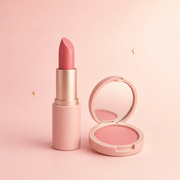
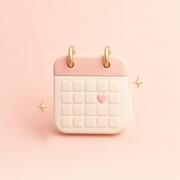
🌸 블러쉬핑크·샴페인골드 테마 + 달력 아이콘 여백 보정(180px·멀티 ICO, v=3)
- 아이콘: 기존 배경의 블러쉬 핑크 그라데이션을 자연스럽게 확장해 중앙 달력 오브젝트를 11% 축소, 여백 확보
- 컬러: 진한 로즈(#E86F8F/#D85A7D) → 블러쉬 핑크(#E48F99/#D67683) + 샴페인 골드(#C69E6B/#EFE3D0/#F9F3EA)
- 배경 크림 블러쉬(#FFF9F7~#FCEAE6), 카드 테두리 골드, '슬슬 갈 때!' 배지 골드, 상태 배지·별점·입력창 톤 정리
- 기능/Firebase 동기화 코드 변경 없음

diff --git a/index.html b/index.html
@@ -3,25 +3,28 @@
 <head>
 <meta charset="utf-8">
 <meta name="viewport" content="width=device-width, initial-scale=1, viewport-fit=cover">
-<meta name="theme-color" content="#FFF8FA">
+<meta name="theme-color" content="#FFF9F7">
 <meta name="apple-mobile-web-app-capable" content="yes">
 <meta name="apple-mobile-web-app-status-bar-style" content="default">
 <meta name="apple-mobile-web-app-title" content="꽃단장">
 <meta name="robots" content="noindex, nofollow">
-<link rel="icon" href="favicon.ico?v=2" sizes="any">
-<link rel="apple-touch-icon" href="apple-touch-icon.png?v=2">
+<link rel="icon" href="favicon.ico?v=3" sizes="any">
+<link rel="apple-touch-icon" href="apple-touch-icon.png?v=3">
 <title>꽃단장 🌸 · 뷰티 케어 캘린더</title>
 <style>
 :root{
-  --bg:#FFF8FA; --card:#FFFFFF; --blush:#FFEFF4; --blush-2:#FFDFE9;
-  --ink:#43323C; --ink-2:#6E5561; --muted:#B08FA0;
-  --line:#F6DCE5; --rose:#E86F8F; --rose-d:#D85A7D; --rose-soft:#FDE7ED;
-  --mint-bg:#E9F6F0; --mint-ink:#3E8E6D;
-  --coral-bg:#FDEBEE; --coral-ink:#D85A7D;
-  --over-bg:#F9D9E1; --over-ink:#B3264C;
+  --bg:#FFF9F7; --card:#FFFFFF; --blush:#FBEFE9; --blush-2:#F6DFD6;
+  --ink:#453430; --ink-2:#6E5A52; --muted:#B09A8F;
+  --line:#EFE3D0; --line-soft:#F6EFE6;
+  --rose:#E48F99; --rose-d:#D67683; --rose-soft:#FBECEA;
+  --gold:#C69E6B; --gold-d:#A67C46; --gold-soft:#EFE3D0; --gold-cream:#F9F3EA;
+  --label:#A9846A;
+  --mint-bg:#EEF4ED; --mint-ink:#5E8A6C;
+  --coral-bg:#F9F3EA; --coral-ink:#A67C46;
+  --over-bg:#F8E3E0; --over-ink:#A8454F;
   --lilac:#9B7EDE; --apricot:#E8913F; --mint-dot:#5FB89A; --slate:#8E9BB0;
-  --shadow:0 4px 16px rgba(216,90,125,.09);
-  --r:20px;
+  --shadow:0 4px 16px rgba(160,124,86,.10);
+  --r:20px; --r2:16px;
 }
 *,*::before,*::after{box-sizing:border-box}
 html{-webkit-text-size-adjust:100%}
@@ -33,14 +36,14 @@ body{
 }
 body::before{content:"";position:fixed;inset:0;z-index:-1;pointer-events:none;
   background-image:
-    radial-gradient(680px 380px at 100% -6%, #FFE3EC 0%, rgba(255,227,236,0) 62%),
-    radial-gradient(560px 340px at -8% 4%, #FFF0F5 0%, rgba(255,240,245,0) 58%);
+    radial-gradient(680px 380px at 100% -6%, #FDE6DA 0%, rgba(253,230,218,0) 62%),
+    radial-gradient(560px 340px at -8% 4%, #FFF1EA 0%, rgba(255,241,234,0) 58%);
   background-repeat:no-repeat;background-position:top right,top left}
 body.sheet-open{position:fixed;left:0;right:0;width:100%;overflow:hidden}
 button{font-family:inherit}
 .hidden{display:none !important}
-.warnbar{display:none;margin:0 0 12px;padding:11px 13px;border-radius:14px;background:#FFF1E6;border:1px solid #F6DBC9;
-  color:#96543A;font-size:11.5px;font-weight:700;line-height:1.5}
+.warnbar{display:none;margin:0 0 12px;padding:11px 13px;border-radius:14px;background:#FBF3E4;border:1px solid #EDDBBC;
+  color:#8A6432;font-size:11.5px;font-weight:700;line-height:1.5}
 .warnbar.on{display:block}
 
 .app{max-width:820px;margin:0 auto;padding:0 16px;padding-bottom:calc(120px + env(safe-area-inset-bottom))}
@@ -48,11 +51,11 @@ button{font-family:inherit}
 /* ── top bar ── */
 .topbar{position:sticky;top:0;z-index:20;display:flex;align-items:center;justify-content:space-between;gap:10px;
   padding:14px 0 12px;padding-top:calc(14px + env(safe-area-inset-top));
-  background:linear-gradient(180deg, rgba(255,248,250,.99) 55%, rgba(255,248,250,.9) 82%, rgba(255,248,250,0));
+  background:linear-gradient(180deg, rgba(255,249,247,.99) 58%, rgba(255,249,247,.92) 84%, rgba(255,249,247,0));
   -webkit-backdrop-filter:blur(8px);backdrop-filter:blur(8px)}
 .brand{display:flex;align-items:center;gap:10px;min-width:0}
 .brand-mark{width:42px;height:42px;border-radius:14px;display:flex;align-items:center;justify-content:center;font-size:21px;flex:0 0 auto;
-  background:linear-gradient(150deg,#FFDFE9,#FFF0F5);box-shadow:0 2px 10px rgba(232,111,143,.18)}
+  background:linear-gradient(150deg,#F9E3DA,#FBF3E6);border:1px solid rgba(198,158,107,.28);box-shadow:0 2px 10px rgba(198,158,107,.18)}
 .brand h1{margin:0;font-size:17px;font-weight:800;letter-spacing:-.02em;line-height:1.2}
 .brand p{margin:3px 0 0;font-size:11.5px;color:var(--muted);font-weight:700;letter-spacing:-.01em;line-height:1.42}
 .icon-btn{width:40px;height:40px;border-radius:14px;border:1px solid var(--line);background:rgba(255,255,255,.94);
@@ -74,19 +77,19 @@ button{font-family:inherit}
 
 /* ── headings ── */
 .sec-head{display:flex;align-items:center;justify-content:space-between;gap:8px;margin:22px 2px 10px}
-.sec-title{font-size:13px;font-weight:800;color:#B0708A;letter-spacing:.02em}
+.sec-title{font-size:13px;font-weight:800;color:var(--label);letter-spacing:.02em}
 .sec-sub{font-size:11.5px;color:var(--muted);font-weight:700}
 .card{background:var(--card);border:1px solid var(--line);border-radius:var(--r);box-shadow:var(--shadow);padding:16px}
 
 /* ── hero ── */
 .hero{position:relative;overflow:hidden;border-radius:26px;padding:18px;
-  background:linear-gradient(155deg,#FFFFFF 0%,#FFF7FA 46%,#FFEFF4 100%);
-  border:1px solid #F8D9E3;box-shadow:0 10px 30px rgba(216,90,125,.12)}
+  background:linear-gradient(155deg,#FFFFFF 0%,#FFFBF7 44%,#FBEDE5 100%);
+  border:1px solid var(--gold-soft);box-shadow:0 10px 30px rgba(198,158,107,.16)}
 .hero::after{content:"";position:absolute;right:-44px;top:-56px;width:170px;height:170px;border-radius:50%;
-  background:radial-gradient(circle,#FFDCE7 0%,rgba(255,220,231,0) 70%);pointer-events:none}
+  background:radial-gradient(circle,#FBE2D4 0%,rgba(251,226,212,0) 70%);pointer-events:none}
 .hero>*{position:relative;z-index:1}
 .hero-stats{display:flex;gap:10px;margin-top:12px}
-.stat{flex:1;background:rgba(255,255,255,.86);border:1px solid #F8DCE6;border-radius:16px;padding:10px 12px}
+.stat{flex:1;background:rgba(255,255,255,.88);border:1px solid #F3E8DB;border-radius:16px;padding:10px 12px}
 .stat b{display:block;font-size:19px;font-weight:800;color:var(--rose-d);letter-spacing:-.02em}
 .stat span{display:block;margin-top:2px;font-size:10.5px;color:var(--muted);font-weight:700}
 .hero-note{margin:10px 2px 0;font-size:11.5px;color:var(--ink-2);font-weight:600}
@@ -97,20 +100,21 @@ button{font-family:inherit}
 .chip{flex:0 0 auto;padding:7px 13px;border-radius:999px;border:1px solid var(--line);background:#fff;
   font-size:12.5px;font-weight:700;color:var(--ink-2);cursor:pointer;-webkit-appearance:none}
 .chip.on{background:linear-gradient(135deg,var(--rose),var(--rose-d));border-color:transparent;color:#fff;
-  box-shadow:0 3px 10px rgba(216,90,125,.28)}
+  box-shadow:0 3px 10px rgba(214,118,131,.28)}
 
 /* ── item card ── */
 .item-card{background:var(--card);border:1px solid var(--line);border-radius:var(--r);box-shadow:var(--shadow);padding:15px 15px 13px;margin-bottom:12px}
 .item-top{display:flex;align-items:flex-start;gap:9px}
 .cat-dot{width:10px;height:10px;border-radius:50%;flex:0 0 auto;margin-top:6px}
 .item-name{font-size:15.5px;font-weight:800;letter-spacing:-.02em;line-height:1.3;flex:1;min-width:0}
-.badge{flex:0 0 auto;font-size:10.5px;font-weight:800;padding:4px 9px;border-radius:999px;letter-spacing:-.01em}
-.badge.ok{background:var(--mint-bg);color:var(--mint-ink)}
-.badge.soon{background:var(--coral-bg);color:var(--coral-ink)}
-.badge.over{background:var(--over-bg);color:var(--over-ink)}
-.badge.none{background:#F5EEF1;color:var(--muted)}
+.badge{flex:0 0 auto;font-size:10.5px;font-weight:800;padding:3px 9px;border-radius:999px;letter-spacing:-.01em;
+  border:1px solid transparent}
+.badge.ok{background:var(--mint-bg);color:var(--mint-ink);border-color:#DDE9DE}
+.badge.soon{background:var(--gold-cream);color:var(--gold-d);border-color:#EBDCC2}
+.badge.over{background:var(--over-bg);color:var(--over-ink);border-color:#EFCFC9}
+.badge.none{background:#F6F1EA;color:var(--muted);border-color:#EDE4D8}
 .item-meta{margin:7px 0 0 19px;font-size:12px;color:var(--ink-2);font-weight:600;line-height:1.55}
-.item-meta .sep{color:#E7CBD6;margin:0 5px}
+.item-meta .sep{color:#EADCCC;margin:0 5px}
 .dplus{margin:8px 0 0 19px;font-size:13px;font-weight:800;color:var(--ink);letter-spacing:-.01em}
 .dplus em{font-style:normal;color:var(--rose-d)}
 .dplus .approx{font-size:11.5px;font-weight:700;color:var(--muted);margin-left:5px}
@@ -118,14 +122,14 @@ button{font-family:inherit}
 .item-actions{display:flex;gap:8px;margin:12px 0 0 19px}
 .btn-done{flex:1;padding:11px 12px;border:none;border-radius:14px;cursor:pointer;-webkit-appearance:none;
   background:linear-gradient(135deg,var(--rose),var(--rose-d));color:#fff;font-size:13.5px;font-weight:800;letter-spacing:-.01em;
-  box-shadow:0 4px 12px rgba(216,90,125,.30)}
+  box-shadow:0 4px 12px rgba(214,118,131,.30)}
 .btn-done:active{transform:scale(.97)}
 .btn-ghost{padding:11px 13px;border:1px solid var(--line);border-radius:14px;background:#fff;color:var(--ink-2);
   font-size:12.5px;font-weight:700;cursor:pointer;-webkit-appearance:none;white-space:nowrap}
 .btn-ghost:active{background:var(--blush)}
 .empty-box{text-align:center;padding:34px 16px;color:var(--muted);font-weight:700;font-size:13px}
 .add-wrap{margin:14px 0 6px;text-align:center}
-.btn-add{width:100%;padding:13px;border:1.5px dashed #E9B7C6;border-radius:16px;background:rgba(255,239,244,.6);
+.btn-add{width:100%;padding:13px;border:1.5px dashed #E3CFB3;border-radius:16px;background:rgba(249,243,234,.65);
   color:var(--rose-d);font-size:13.5px;font-weight:800;cursor:pointer;-webkit-appearance:none}
 .btn-add:active{background:var(--blush)}
 
@@ -140,8 +144,8 @@ button{font-family:inherit}
   cursor:pointer;-webkit-appearance:none;padding:4px 0 3px;text-align:center;font-family:inherit}
 .cal-cell .d{display:block;font-size:12.5px;font-weight:700;color:var(--ink-2);line-height:1.3}
 .cal-cell.blank{visibility:hidden}
-.cal-cell.out .d{color:#DCC3CE}
-.cal-cell.sel{background:var(--blush);border-color:#F3C2D2}
+.cal-cell.out .d{color:#DCC9BC}
+.cal-cell.sel{background:var(--blush);border-color:#EBDCC2}
 .cal-cell.sel .d{color:var(--rose-d);font-weight:800}
 .cal-cell.today .d{color:var(--rose-d);font-weight:800}
 .cal-dots{display:flex;gap:2.5px;justify-content:center;min-height:6px;margin-top:3px}
@@ -152,15 +156,15 @@ button{font-family:inherit}
 .rec-top{display:flex;align-items:center;gap:8px}
 .rec-name{font-weight:800;font-size:13.5px;flex:1;min-width:0}
 .rec-meta{font-size:11.5px;color:var(--ink-2);font-weight:600;margin-top:4px;line-height:1.5}
-.rec-memo{font-size:12px;color:var(--ink-2);background:var(--blush);border-radius:10px;padding:7px 10px;margin-top:7px;font-weight:600}
-.stars{font-size:12px;color:#E8A93F;letter-spacing:.06em}
+.rec-memo{font-size:12px;color:var(--ink-2);background:var(--gold-cream);border-radius:10px;padding:7px 10px;margin-top:7px;font-weight:600}
+.stars{font-size:12px;color:var(--gold);letter-spacing:.06em}
 .rec-btns{display:flex;gap:6px;margin-top:9px}
 .mini-btn{padding:6px 11px;border-radius:10px;border:1px solid var(--line);background:#fff;color:var(--ink-2);
   font-size:11.5px;font-weight:700;cursor:pointer;-webkit-appearance:none}
-.mini-btn.danger{color:#B3264C;border-color:#F0C6D2}
+.mini-btn.danger{color:var(--over-ink);border-color:#EFCFC9}
 
 /* ── timeline ── */
-.tl-item{display:flex;gap:10px;padding:10px 2px;border-bottom:1px solid #FAEDF1;align-items:baseline}
+.tl-item{display:flex;gap:10px;padding:10px 2px;border-bottom:1px solid #F7F0E7;align-items:baseline}
 .tl-item:last-child{border-bottom:none}
 .tl-date{flex:0 0 74px;font-size:12px;font-weight:800;color:var(--rose-d)}
 .tl-body{font-size:12.5px;color:var(--ink-2);font-weight:600;line-height:1.5;flex:1}
@@ -171,20 +175,20 @@ button{font-family:inherit}
 .set-btn{flex:1 1 44%;padding:12px 10px;border:1px solid var(--line);border-radius:14px;background:#fff;color:var(--ink-2);
   font-size:12.5px;font-weight:800;cursor:pointer;-webkit-appearance:none}
 .set-btn.primary{background:linear-gradient(135deg,var(--rose),var(--rose-d));border-color:transparent;color:#fff;
-  box-shadow:0 4px 12px rgba(216,90,125,.25)}
-.set-btn.danger{color:#B3264C;border-color:#F0C6D2}
+  box-shadow:0 4px 12px rgba(214,118,131,.25)}
+.set-btn.danger{color:var(--over-ink);border-color:#EFCFC9}
 .set-note{font-size:11.5px;color:var(--muted);font-weight:600;line-height:1.6;margin-top:9px}
-.undo-bar{display:none;margin:0 0 12px;padding:11px 13px;border-radius:14px;background:var(--blush);border:1px solid #F3C2D2;
-  color:var(--rose-d);font-size:12px;font-weight:800;align-items:center;justify-content:space-between;gap:10px}
+.undo-bar{display:none;margin:0 0 12px;padding:11px 13px;border-radius:14px;background:var(--gold-cream);border:1px solid #EBDCC2;
+  color:var(--gold-d);font-size:12px;font-weight:800;align-items:center;justify-content:space-between;gap:10px}
 .undo-bar.on{display:flex}
 textarea.paste{width:100%;min-height:84px;border:1px solid var(--line);border-radius:12px;padding:10px;font-size:12px;
-  font-family:inherit;color:var(--ink);resize:vertical;-webkit-appearance:none;background:#FFFBFC}
+  font-family:inherit;color:var(--ink);resize:vertical;-webkit-appearance:none;background:#FFFCF8}
 
 /* ── tab bar ── */
 .tabbar{position:fixed;left:0;right:0;bottom:0;z-index:30;
   padding:8px 10px calc(8px + env(safe-area-inset-bottom));
-  background:rgba(255,248,250,.96);-webkit-backdrop-filter:blur(10px);backdrop-filter:blur(10px);
-  border-top:1px solid #F8E0E8}
+  background:rgba(255,249,247,.96);-webkit-backdrop-filter:blur(10px);backdrop-filter:blur(10px);
+  border-top:1px solid var(--gold-soft)}
 .tabbar-in{max-width:820px;margin:0 auto;display:flex;gap:6px}
 .tab{flex:1;border:none;background:transparent;border-radius:14px;padding:7px 4px 6px;cursor:pointer;-webkit-appearance:none;
   color:var(--muted);font-size:10.5px;font-weight:800;letter-spacing:-.01em}
@@ -193,38 +197,38 @@ textarea.paste{width:100%;min-height:84px;border:1px solid var(--line);border-ra
 .tab.on .ic{filter:none;opacity:1}
 
 /* ── sheet / modal ── */
-.sheet-back{position:fixed;inset:0;z-index:40;background:rgba(67,50,60,.42);display:none}
+.sheet-back{position:fixed;inset:0;z-index:40;background:rgba(69,52,48,.40);display:none}
 .sheet-back.on{display:block}
 .sheet{position:fixed;left:0;right:0;bottom:0;z-index:41;transform:translateY(105%);transition:transform .26s ease;
   background:#fff;border-radius:24px 24px 0 0;max-height:92vh;overflow-y:auto;-webkit-overflow-scrolling:touch;
-  padding:18px 18px calc(20px + env(safe-area-inset-bottom));box-shadow:0 -8px 40px rgba(67,50,60,.18)}
+  padding:18px 18px calc(20px + env(safe-area-inset-bottom));box-shadow:0 -8px 40px rgba(69,52,48,.18)}
 .sheet.on{transform:translateY(0)}
-.sheet-grab{width:40px;height:4px;border-radius:2px;background:#EBD2DC;margin:0 auto 14px}
+.sheet-grab{width:40px;height:4px;border-radius:2px;background:#E8D8C9;margin:0 auto 14px}
 .sheet h2{margin:0 0 14px;font-size:16.5px;font-weight:800;letter-spacing:-.02em}
 .f-lbl{display:block;font-size:11.5px;font-weight:800;color:var(--ink-2);margin:12px 0 5px}
 .f-in,select.f-in{width:100%;padding:11px 12px;border:1px solid var(--line);border-radius:12px;font-size:14px;
-  font-family:inherit;color:var(--ink);-webkit-appearance:none;background:#FFFBFC}
+  font-family:inherit;color:var(--ink);-webkit-appearance:none;background:#FFFCF8}
 .f-row{display:flex;gap:8px}
 .f-row .f-in{flex:1}
 .seg{display:flex;gap:6px}
 .seg button{flex:1;padding:10px 4px;border:1px solid var(--line);border-radius:12px;background:#fff;color:var(--ink-2);
   font-size:12.5px;font-weight:700;cursor:pointer;-webkit-appearance:none}
-.seg button.on{background:var(--blush);border-color:#F3C2D2;color:var(--rose-d);font-weight:800}
+.seg button.on{background:var(--blush);border-color:#EBDCC2;color:var(--rose-d);font-weight:800}
 .rate-row{display:flex;gap:6px}
 .rate-row button{flex:1;padding:10px 0;border:1px solid var(--line);border-radius:12px;background:#fff;font-size:16px;cursor:pointer;-webkit-appearance:none}
-.rate-row button.on{background:#FFF4E2;border-color:#F2D9A6}
+.rate-row button.on{background:var(--gold-cream);border-color:#E5D3B4}
 .sheet-btns{display:flex;gap:9px;margin-top:18px}
 .btn-main{flex:1;padding:13px;border:none;border-radius:14px;background:linear-gradient(135deg,var(--rose),var(--rose-d));
-  color:#fff;font-size:14px;font-weight:800;cursor:pointer;-webkit-appearance:none;box-shadow:0 4px 12px rgba(216,90,125,.3)}
+  color:#fff;font-size:14px;font-weight:800;cursor:pointer;-webkit-appearance:none;box-shadow:0 4px 12px rgba(214,118,131,.3)}
 .btn-sub{padding:13px 16px;border:1px solid var(--line);border-radius:14px;background:#fff;color:var(--ink-2);
   font-size:13px;font-weight:800;cursor:pointer;-webkit-appearance:none}
-.btn-del{width:100%;margin-top:10px;padding:12px;border:1px solid #F0C6D2;border-radius:14px;background:#fff;
-  color:#B3264C;font-size:13px;font-weight:800;cursor:pointer;-webkit-appearance:none}
+.btn-del{width:100%;margin-top:10px;padding:12px;border:1px solid #EFCFC9;border-radius:14px;background:#fff;
+  color:var(--over-ink);font-size:13px;font-weight:800;cursor:pointer;-webkit-appearance:none}
 .sheet .hint{font-size:11px;color:var(--muted);font-weight:600;margin-top:6px;line-height:1.5}
 
 /* ── toast ── */
 .toast{position:fixed;left:50%;bottom:calc(86px + env(safe-area-inset-bottom));transform:translateX(-50%) translateY(20px);
-  z-index:60;background:rgba(67,50,60,.92);color:#fff;font-size:12.5px;font-weight:700;padding:10px 16px;border-radius:999px;
+  z-index:60;background:rgba(69,52,48,.92);color:#fff;font-size:12.5px;font-weight:700;padding:10px 16px;border-radius:999px;
   opacity:0;pointer-events:none;transition:all .25s ease;max-width:86vw;text-align:center}
 .toast.on{opacity:1;transform:translateX(-50%) translateY(0)}
 
@@ -250,7 +254,7 @@ textarea.paste{width:100%;min-height:84px;border:1px solid var(--line);border-ra
   <section id="viewHome">
     <div class="hero">
       <div class="hero-top" style="display:flex;align-items:center;justify-content:space-between;gap:8px">
-        <div style="font-size:13px;font-weight:800;color:#B0708A" id="heroDate">오늘</div>
+        <div style="font-size:13px;font-weight:800;color:var(--label)" id="heroDate">오늘</div>
         <div style="font-size:11px;font-weight:700;color:var(--muted)" id="heroDday"></div>
       </div>
       <div class="hero-stats">
@@ -396,7 +400,7 @@ textarea.paste{width:100%;min-height:84px;border:1px solid var(--line);border-ra
   <p id="cfBody" style="font-size:13.5px;color:var(--ink-2);font-weight:600;line-height:1.6;margin:0 0 6px;white-space:pre-wrap"></p>
   <div class="sheet-btns">
     <button class="btn-sub" id="cfNo">취소</button>
-    <button class="btn-main" id="cfYes" style="background:linear-gradient(135deg,#D85A7D,#B3264C)">확인</button>
+    <button class="btn-main" id="cfYes" style="background:linear-gradient(135deg,#D67683,#B34E5C)">확인</button>
   </div>
 </div>
 
@@ -408,7 +412,7 @@ textarea.paste{width:100%;min-height:84px;border:1px solid var(--line);border-ra
 
 /* ─────────── 상수 · 상태 ─────────── */
 var CATS = [
-  {key:'피부과',   color:'#E86F8F'},
+  {key:'피부과',   color:'#E08B95'},
   {key:'속눈썹',  color:'#9B7EDE'},
   {key:'네일·패디', color:'#E8913F'},
   {key:'헤어',    color:'#5FB89A'},
@@ -1473,9 +1477,9 @@ function syncBoxHtml(){
   }
   var head = (sync.status === 'error')
     ? '<div class="sync-badge bad">☁ 연결이 끊겼어요</div>'
-    : '<div class="sync-badge" style="background:#F7F1F4;color:#8E7B86;border-color:#EBDDE4">📍 이 폰에만 저장 중</div>';
+    : '<div class="sync-badge" style="background:var(--gold-cream);color:#A08A72;border-color:#EEE0CB">📍 이 폰에만 저장 중</div>';
   var err = (sync.err)
-    ? '<div class="sync-line" style="color:#B3264C">' + esc(sync.err) + '</div>'
+    ? '<div class="sync-line" style="color:var(--over-ink)">' + esc(sync.err) + '</div>'
     : '<div class="sync-line">같은 가족 코드를 넣은 기기끼리 기록이 실시간으로 맞춰져요. 비워 두면 지금처럼 이 폰에만 저장돼요.</div>';
   return head +
     '<label class="f-lbl" style="margin-top:10px">가족 공유 코드</label>' +
